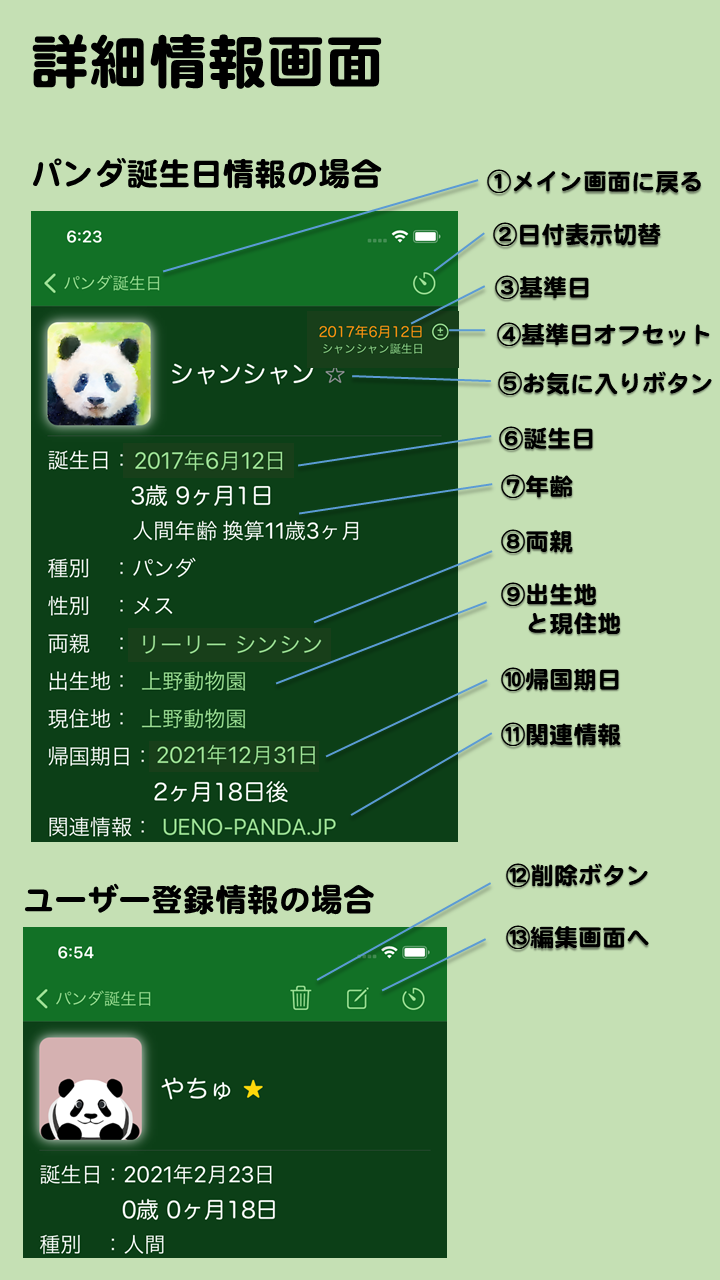
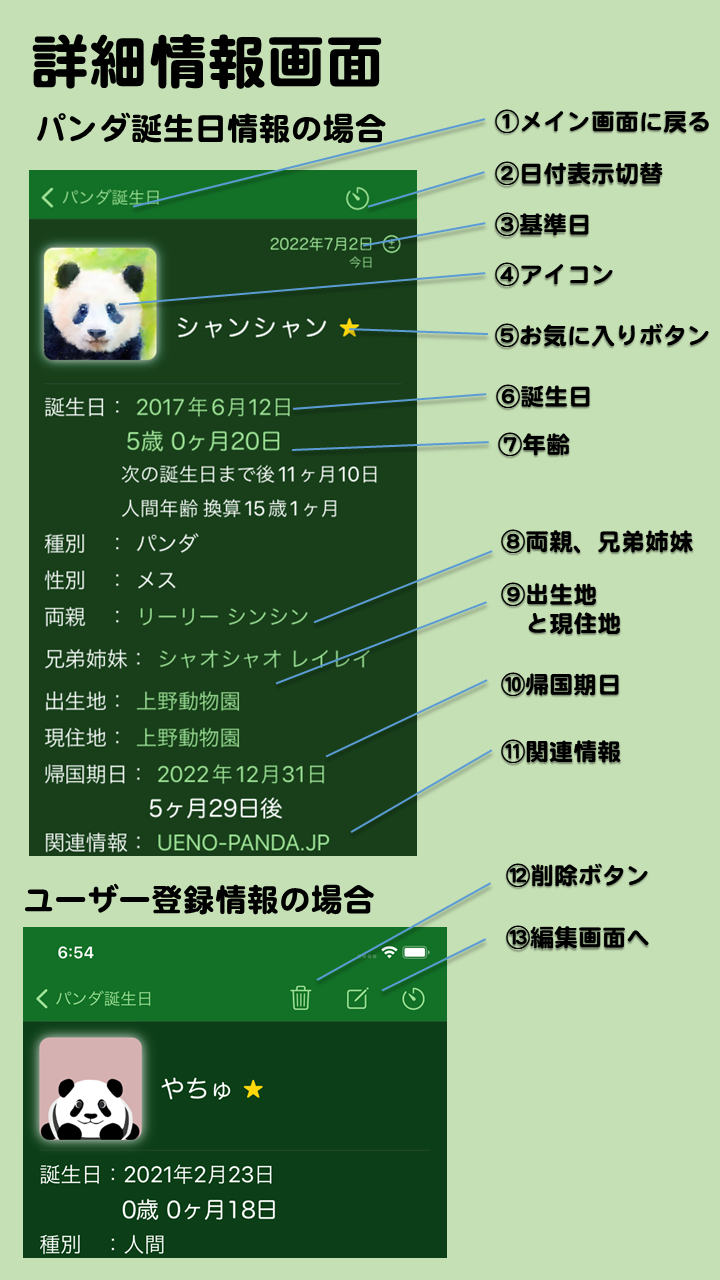
panda birthday 3.1 help

Changed region(s): [[0.0306, 0.0625, 0.9778, 0.6875], [0.825, 0.4062, 0.9778, 0.4375]]

diff --git a/pandabirthday/v3_1/help_detailPage.html b/pandabirthday/v3_1/help_detailPage.html
@@ -46,8 +46,6 @@
     <dl>
       <dt>詳細情報画面とは</dt>
       <dd>メイン画面で情報欄をタップして移動してくる画面です。メイン画面で選んだパンダやユーザー登録情報の詳細情報を表示します。パンダや情報の種類によって表示される項目も変わります。</dd>
-      <p>
-      <dd>アイコン画像をタップすると、画像を大きく表示できます。事前登録されたパンダ情報の場合は、アイコン画像変更ボタンとプリセット画像に戻すボタンが表示されます。前者で自分が好きな画像に置き換えできます。後者で元の画像に戻せます。</dd>
       <dd><br></dd>
       <dt>画面の説明</dt>
       <dd></dd>
@@ -57,14 +55,19 @@
       <dd>このページの誕生日や来日日、帰国期日の表示形式を切り替えます。</dd>
       <dt>③基準日</dt>
       <dd>年齢計算の基準日を表示します。初期値は今日です。タップすると任意の日を入力することができます。</dd>
-      <dt>④基準日オフセットボタン</dt>
-      <dd>タップすると基準日のオフセット（差分）を入力できます。</dd>
+      <dd>± をタップすると基準日のオフセット（差分）を入力できます。</dd>
+      <dt>④アイコン</dt>
+      <dd>タップするとアイコンの変更ができます。</dd>
+      <dd>アイコン右下の✖印をタップするとそのアイコンを削除できます。</dd>
+      <dd>画像追加を選ぶとアイコンを追加できます。登録済みアイコンから選ぶか、写真アルバムから選ぶことができます。</dd>
+      <dd>パンダ情報では、プリセット画像に戻すを選ぶことでデフォルトの画像に戻すことができます。</dd>
       <dt>⑤お気に入りボタン</dt>
-      <dd>押すとこのパンダ情報をお気に入りとします。もう一度押すとお気に入りを解除します。</dd>
+      <dd>タップするとお気に入りにします。もう一度押すとお気に入りを解除します。</dd>
       <dt>⑥誕生日</dt>
       <dd>誕生日を表示します。情報がイベントの場合はイベント日を表示します。<br>タップすると誕生日を基準日にセットできます。これによってこのパンダが生まれた時に両親や兄弟が何歳だったかとかがわかります。</dd>
       <dt>⑦年齢</dt>
       <dd>年齢、人間年齢に換算した年齢を表示します。イベントの場合はイベントまでもしくはイベントからの日数を表示します。<br>日付表示切り替えを押すことで日数の表示形式を切り換えられます。</dd>
+      <dd>年齢をタップすると、任意の年齢の誕生日を基準日を設定することができます。</dd>
       <dt>⑧両親や兄弟姉妹、子供</dt>
       <dd>両親の名前を表示します。<br>登録されている名前の場合は名前をタップするとその親の詳細情報画面を表示します。兄弟姉妹や子供がいる場合はその名前を表示し、登録されている場合は名前をタップすると詳細情報画面を表示できます。</dd>
       <dt>⑨出生地と現住地</dt>

diff --git a/pandabirthday/v3_1/help_addPage.html b/pandabirthday/v3_1/help_addPage.html
@@ -75,9 +75,11 @@
       <dd>ページ内の情報を入力した後にこのボタンをタップして情報を登録します。情報が登録されたら自動的にメイン画面に戻ります。</dd>
       <dt>③種類選択</dt>
       <dd>まず情報の種類を選択します。誕生日あるいはイベント（記念日など）のいずれかを選びます。誕生日を選んだ場合は入力項目に性別選択と種別選択が増えます。</dd>
+      <dd>種別選択でパンダもしくは犬、猫を選んだ場合は、人間年齢に換算した年齢を詳細画面で表示できます。</dd>
       <dt>④アイコン選択</dt>
       <dd>メイン画面や詳細情報画面で表示されるアイコンを選びます。</dd>
-      <dd>アイコンの一覧の最後にある＋を押すと、iPhoneに保存された画像から好きな画像を選んでアイコン画像として登録できます。</dd>
+      <dd>アイコン右下の✖印をタップするとそのアイコンを削除できます。</dd>
+      <dd>画像追加を選ぶとアイコンを追加できます。登録済みアイコンから選ぶか、写真アルバムから選ぶことができます。</dd>
       <dt>⑤名前入力</dt>
       <dd>情報を示す名前を入力します。既にある情報と同じ名前は登録できません。</dd>
       <dt>⑥日にち選択</dt>

diff --git a/pandabirthday/v3_1/help_editPage.html b/pandabirthday/v3_1/help_editPage.html
@@ -55,8 +55,9 @@
       <dt>③種類選択</dt>
       <dd>まず情報の種類を選択します。誕生日あるいはイベント（記念日など）のいずれかを選びます。誕生日を選んだ場合は入力項目に性別選択と種別選択が増えます。</dd>
       <dt>④アイコン選択</dt>
-      <dd>メイン画面や詳細情報画面で表示されるアイコンを選びます。</dd>
-      <dd>アイコンの一覧の最後にある＋を押すと、iPhoneに保存された画像から好きな画像を選んでアイコン画像として登録できます。</dd>
+      <dd>メイン画面や詳細情報画面で表示されるアイコンを変更します。</dd>
+      <dd>アイコン右下の✖印をタップするとそのアイコンを削除できます。</dd>
+      <dd>画像追加を選ぶとアイコンを追加できます。登録ずみアイコンから選ぶか、写真アルバムから選ぶことができます。</dd>
       <dt>⑤名前入力</dt>
       <dd>情報を示す名前を入力します。既にある情報と同じ名前は登録できません。</dd>
       <dt>⑥日にち選択</dt>
